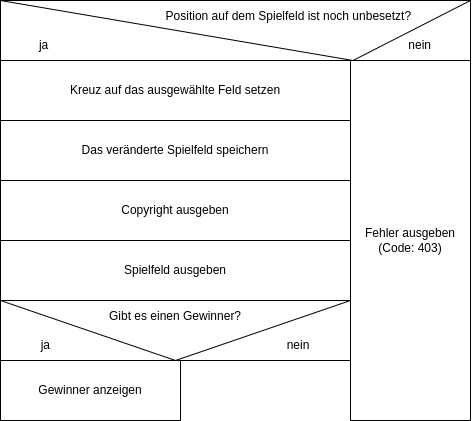
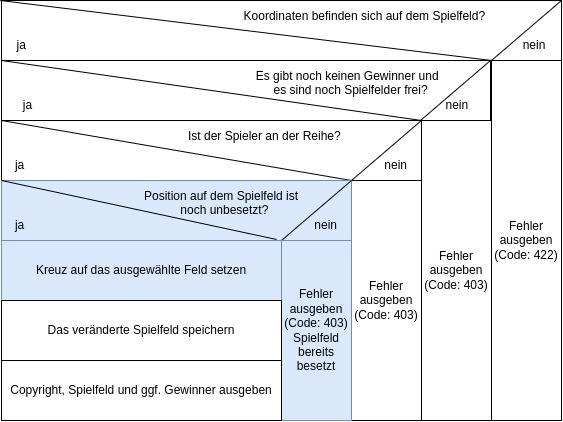
[DOCS] Improve struktogram for method play()

diff --git a/app/app/App/Http/Controllers/GameController.php b/app/app/App/Http/Controllers/GameController.php
@@ -171,11 +171,8 @@ class GameController extends Controller
         // Once all the checks have passed, you can finally update the game board by calling
         // $game->setSpace( $x, $y, GameMark::Circle ).
 
-        // [ The code to check if the player is allowed to make a move goes here ]
-        // If the player is not allowed to make a move, run the code in the line below by removing the //
-        // return response("Don't cheat, it's not your turn yet!")->setStatusCode(403)->header('Content-Type', 'text/plain');
-
         // [ The code to check if the space is free goes here ]
+
         // If the space is not free, run the code in the line below by removing the //
         //return response("This space has already been claimed!")->setStatusCode(403)->header('Content-Type', 'text/plain');
 
@@ -215,7 +212,7 @@ class GameController extends Controller
 
         // get all rows of our game board
         foreach ($game->getRows() as $y => $row) {
-            // get all spaces inside of the row
+            // get all spaces inside the row
             foreach ($row->getSpaces() as $x => $space) {
                 // check whether the space is still free
                 if ($space->free()) {

diff --git a/README.md b/README.md
@@ -95,17 +95,19 @@ Noch kannst Du nicht gegen den vom MÜNSMEDIA-Team programmierten Bot spielen.
 Es fehlt noch die Logik, was bei einem Aufruf der `/play`-API-Route passieren soll.
 
 ### Struktogramm für einen Spielzug
-Anbei das Struktogramm für einen Spielzug von Dir.
+Anbei das Struktogramm für einen Spielzug von Dir mit der Methode `play()`.
 
 ![](./docs/struktogramm-spielzug.jpg)
 
 **To-do:**
 - [ ] Schau Dir in Ruhe das Struktogramm für einen Spielzug von Dir an!
-- [ ] In der Datei [app/app/App/Http/Controllers/GameController.php](app/app/App/Http/Controllers/GameController.php) in der Methode `play()` - Zeile xyz fehlt noch die Logik.
+  - Die von dir noch zu implementierenden Teile des Spielzugs haben wir im Struktogramm farblich hervorgehoben.
+- [ ] In der Datei [app/app/App/Http/Controllers/GameController.php](app/app/App/Http/Controllers/GameController.php) in der Methode `play()` - Zeile 144 fehlt noch die Logik.
   - Bitte ergänze die fehlende Logik, wir haben Dir Hilfestellungen in Form von Kommentaren im Quelltext hinterlassen.
 - [ ] Teste Deinen Spielzug in Swagger, die Funktion heißt dort ebenfalls `/play`.
 - [ ] **❌ Um den Spielstand zurückzusetzen, gibt es im Swagger die Methode `/board`**
 - [ ] ✅ Erstelle einen Commit (siehe oben `Commit erstellen`)
+- [ ] 🔁 Klicke den Button `Sync changes` um Deine Änderungen auf GitHub hochzuladen.
 
 ## 4.) Der 🤖 spielt - /play-bot
 Wir haben bereits einen 🤖 (Bot) geschrieben, gegen den Du spielen kannst.  
@@ -116,20 +118,22 @@ Aktuell kannst Du oder der Bot noch mehrmals hintereinander spielen, obwohl ihr 
 So macht das natürlich keinen Spaß 😞! 
 
 **To-do:**
-- [ ] In der Datei [app/app/App/Http/Controllers/GameController.php](app/app/App/Http/Controllers/GameController.php) in der Methode `isAllowedToPlay()` - Zeile xyz fehlt noch die Logik.
+- [ ] In der Datei [app/app/App/Http/Controllers/GameController.php](app/app/App/Http/Controllers/GameController.php) in der Methode `isAllowedToPlay()` - Zeile 121 fehlt noch die Logik.
   - Bitte ergänze die fehlende Logik, wir haben Dir Hilfestellungen in Form von Kommentaren im Quelltext hinterlassen.
 - [ ] Teste deine Änderung in Swagger ausführlich
 - [ ] ✅ Erstelle einen Commit (siehe oben `Commit erstellen`)
+- [ ] 🔁 Klicke den Button `Sync changes` um Deine Änderungen auf GitHub hochzuladen.
 
 ## 6.) Wer hat gewonnen? 🏆
 Aktuell kann das Spiel noch keinen Gewinner ausgeben.  
 Es ist an dir das zu ändern.
 
 **To-do:**
-- [ ] In der Datei [app/app/App/Http/Controllers/GameController.php](app/app/App/Http/Controllers/GameController.php) in der Methode `whoHasWon()` - Zeile xyz fehlt noch die Logik.
+- [ ] In der Datei [app/app/App/Http/Controllers/GameController.php](app/app/App/Http/Controllers/GameController.php) in der Methode `whoHasWon()` - Zeile 104 fehlt noch die Logik.
   - Bitte ergänze die fehlende Logik, wir haben Dir Hilfestellungen in Form von Kommentaren im Quelltext hinterlassen.
 - [ ] Teste deine Änderung in Swagger ausführlich
 - [ ] ✅ Erstelle einen Commit (siehe oben `Commit erstellen`)
+- [ ] 🔁 Klicke den Button `Sync changes` um Deine Änderungen auf GitHub hochzuladen.
 
 ## Zusatzaufgaben
 Dir hat das alles großen Spaß gemacht und du willst noch mehr, kein Problem 😈!
@@ -143,6 +147,7 @@ Dazu kann es hilfreich sein, wenn Du dir die Methoden des `$game` anzeigen läss
 - [ ] Verschönere die Methode `someoneHasWon()`
 - [ ] Teste deine Änderung in Swagger ausführlich
 - [ ] ✅ Erstelle einen Commit (siehe oben `Commit erstellen`)
+- [ ] 🔁 Klicke den Button `Sync changes` um Deine Änderungen auf GitHub hochzuladen.
 
 ### 8.) 4x4 Tic-Tac-Toe 😈
 Überlege Dir, was du verändern müsstest, damit wir ein 4x4 Tic-Tac-Toe spielen können.  
@@ -153,3 +158,10 @@ Schau dir dazu auch die Klasse [app/app/Components/GameBoard/GameBoard.php](app/
   - Insbesondere Zusatzaufgabe 7.) wird dazu notwendig sein.
 - [ ] Teste deine Änderung in Swagger ausführlich
 - [ ] ✅ Erstelle einen Commit (siehe oben `Commit erstellen`)
+- [ ] 🔁 Klicke den Button `Sync changes` um Deine Änderungen auf GitHub hochzuladen.
+
+# ➡ Wie geht es weiter?
+Sende uns die Lösung zu Aufgabe 1 sowie den Link zu Deinem Github-Repository per E-Mail, sobald Du fertig bist.  
+Wir werden Deine Lösung auswerten und Dich zu einem persönlichen Kennenlerngespräch einladen, sofern Du unter die besten 5 Bewerber*innen kommst.
+
+Wir freuen uns auf Dich!
